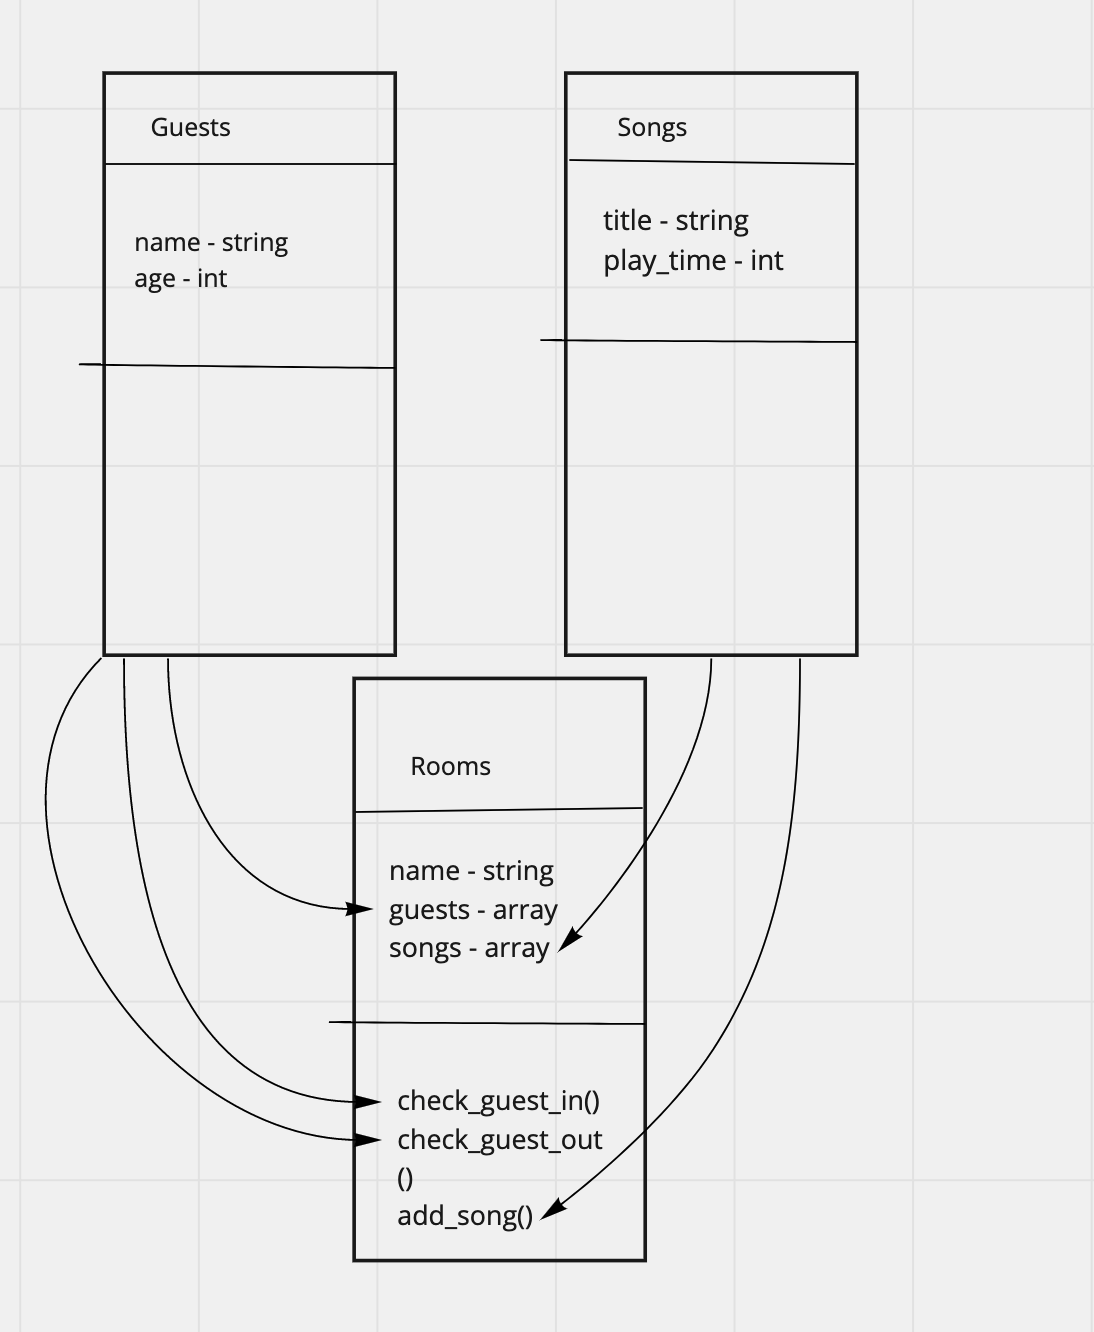
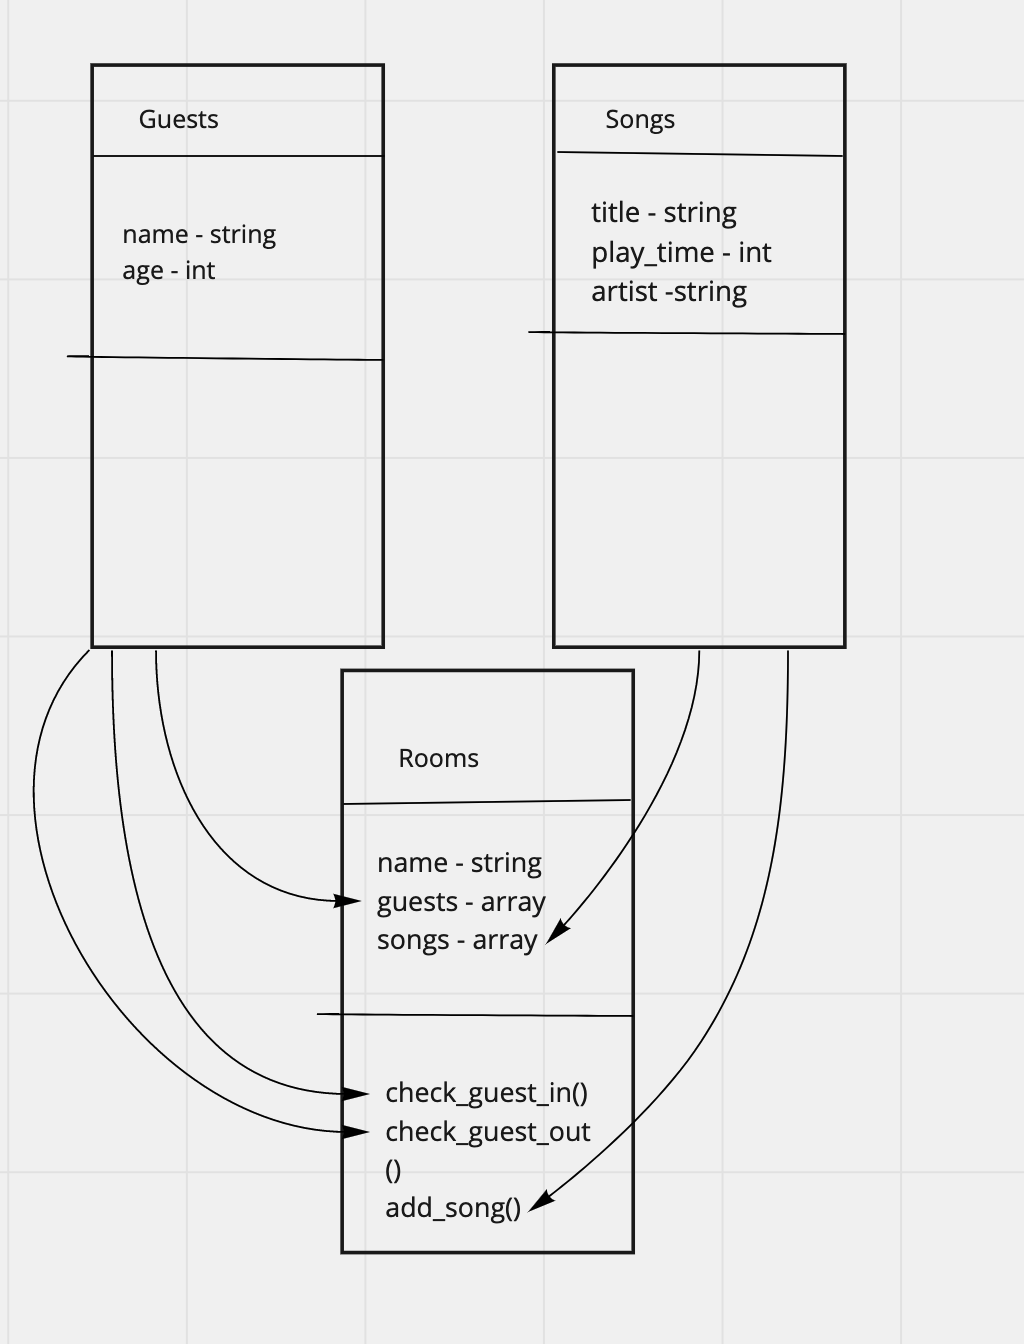
add artist variable to songs class and updated diagram. add test for getting artist and code to make test pass

diff --git a/specs/rooms_spec.rb b/specs/rooms_spec.rb
@@ -3,6 +3,21 @@ require('minitest/reporters')
 MiniTest::Reporters.use! MiniTest::Reporters::SpecReporter.new
 
 require_relative('../rooms')
+require_relative('../guests')
+require_relative('../songs')
 
 class TestRooms < MiniTest::Test
+    def setup()
+        @guest1 = Guests.new("Danny", 35)
+        @guest2 = Guests.new("Fiona", 24)
+        @guest3 = Guests.new("Jill", 31)
+        @guests = [@guest1, @guest2]
+
+        @song1 = Songs.new("Midnight Train", 6)
+        @song2 = Songs.new("Catfish Blues", 4)
+        @song3 = Songs.new("Hilltop Jazz", 3) 
+        @songs_in_room = [@song1, @song2]
+
+        #@rooms = 
+    end
 end

diff --git a/specs/songs_spec.rb b/specs/songs_spec.rb
@@ -6,7 +6,7 @@ require_relative('../songs')
 
 class TestSongs < MiniTest::Test
     def setup()
-        @song1 = Songs.new("We Will Rock You", 5)
+        @song1 = Songs.new("We Will Rock You", 5, "Queen")
     end
 
     def test_song_has_title()
@@ -15,5 +15,9 @@ class TestSongs < MiniTest::Test
 
     def test_song_has_play_time()
         assert_equal(5, @song1.play_time)
+    end
+
+    def test_song_has_artist()
+        assert_equal("Queen", @song1.artist)
     end
 end

diff --git a/songs.rb b/songs.rb
@@ -1,8 +1,9 @@
 class Songs
-    attr_reader :title, :play_time
+    attr_reader :title, :play_time, :artist
 
-    def initialize(title, play_time)
+    def initialize(title, play_time, artist)
         @title = title
         @play_time = play_time
+        @artist = artist
     end
 end
